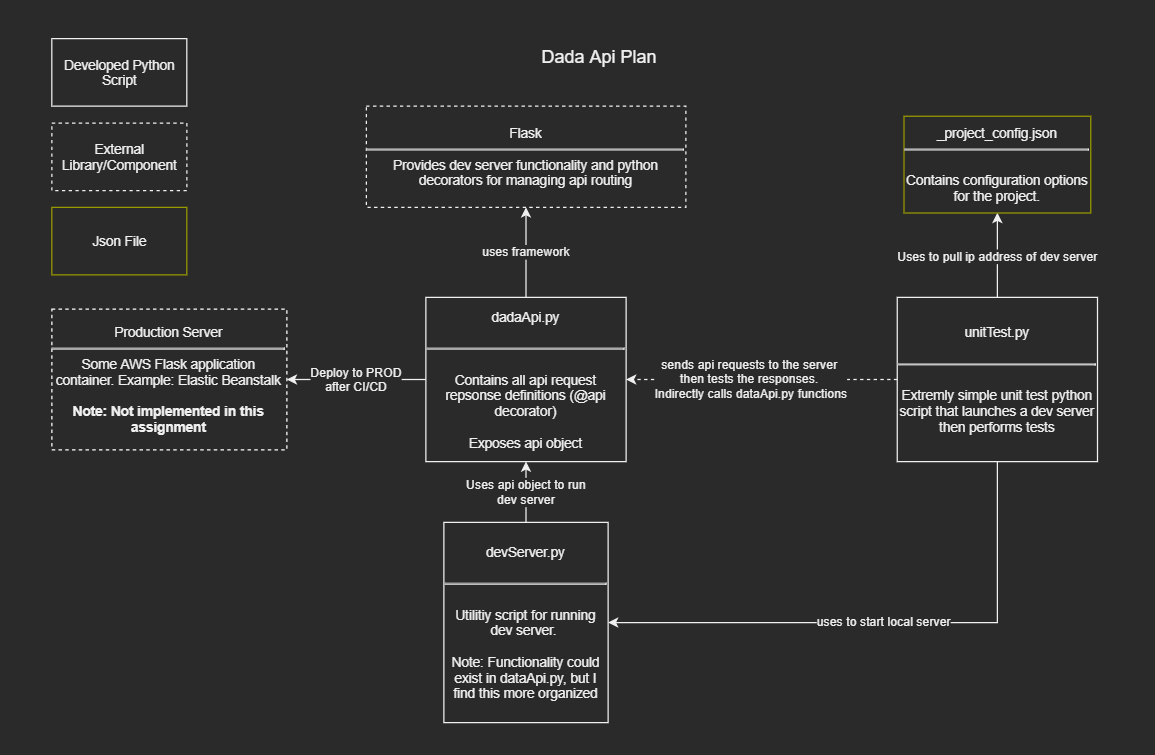
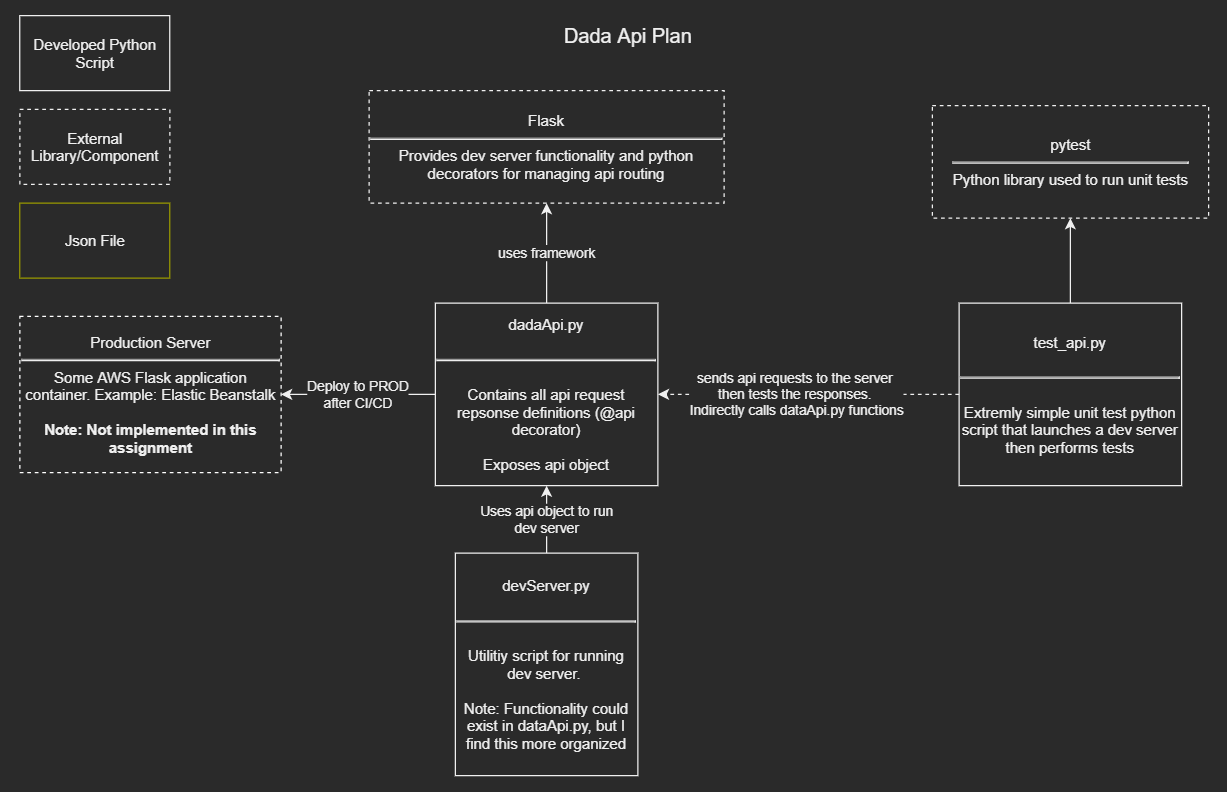
Documentation updates

diff --git a/tests/test_api.py b/tests/test_api.py
@@ -4,7 +4,7 @@ import requests
 args = sys.argv
 lenargs = len(args)
 
-# load the config json and detemrine host
+# load the config json and determine host
 defaultServerIp = "localhost" 
 defaultServerPort = "5000" 
 
